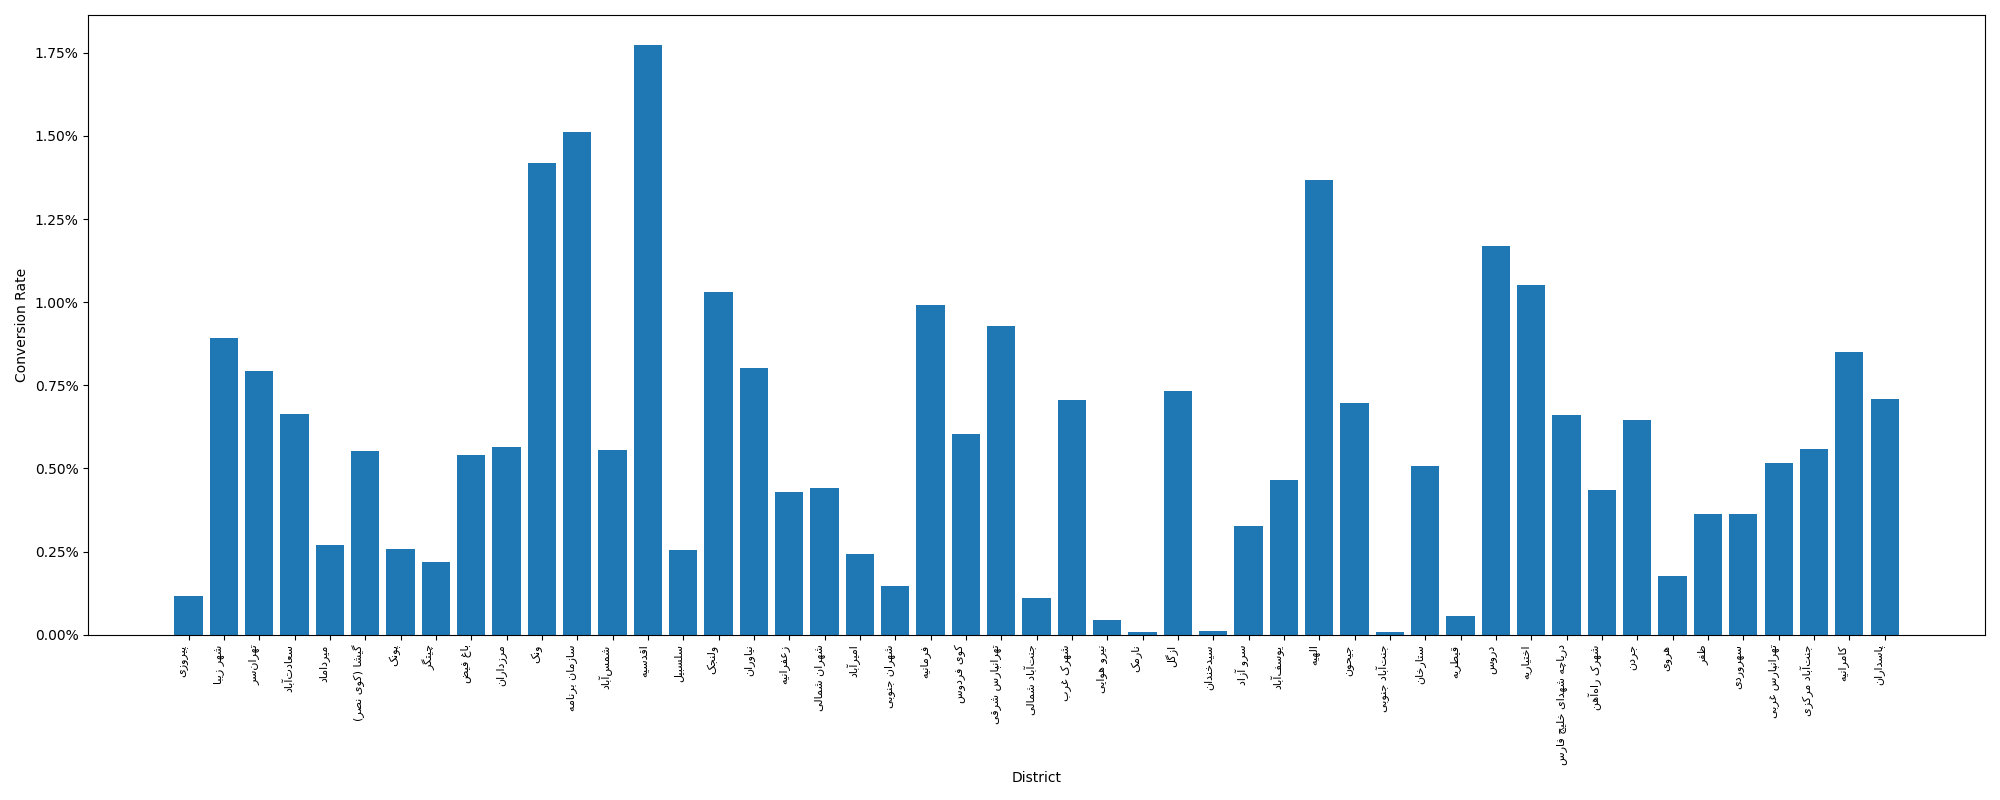
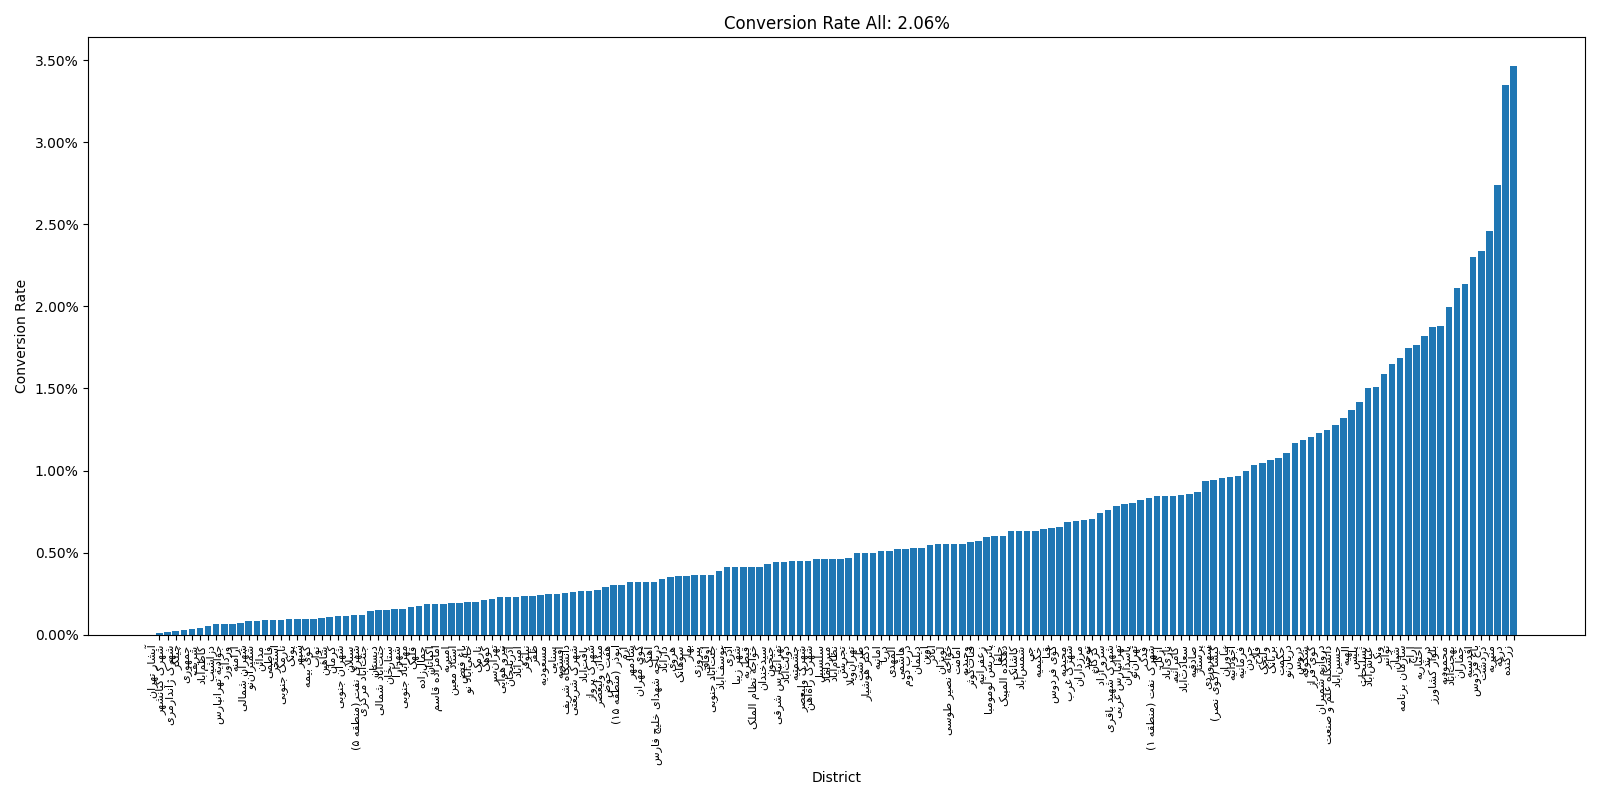
Added the PCA Results

diff --git a/PCA_analysis.py b/PCA_analysis.py
@@ -7,7 +7,7 @@ from bidi.algorithm import get_display
 from arabic_reshaper import reshape
 import matplotlib.ticker as mtick
 import os
-
+import numpy as np
 
 def process_data(info):
     data = pd.DataFrame.from_dict(info, orient='index', columns=['CREDIT', 'RENT', 'longitude', 'latitude','Meterage','District'])
@@ -17,7 +17,7 @@ def process_data(info):
     data['CREDIT'] /= 1000000
     data['RENT'] /= 1000000
     data['longitude'], data['latitude'] = data['longitude'].astype(float), data['latitude'].astype(float)
-    mask_prices = (data['CREDIT'] < 100) | (data['CREDIT'] > 2000) | (data['RENT'] < 1) | (data['RENT'] > 100)
+    mask_prices = (data['CREDIT'] < 100) | (data['CREDIT'] > 2000) | (data['RENT'] < 5) | (data['RENT'] > 100)
     data = data.loc[~mask_prices].dropna(subset=['CREDIT', 'RENT'])
 
     locs = data[['longitude', 'latitude']].dropna()
@@ -32,19 +32,28 @@ def compute_PCA_districts(files_path, treshhold):
     data, data_location, districts = process_data(info=info)
     conversion_rates = {}
 
+    pca = PCA()
+    pca.fit_transform(data[['CREDIT', 'RENT']])
+    conversion_rate_all = abs(pca.components_[0,1])
+
     for district in districts:
         data_district = data.loc[data['District'] == district]
 
         if len(data_district) > treshhold:
             pca = PCA()
-            pca_fit = pca.fit_transform(data_district[['CREDIT', 'RENT']])
+            pca.fit_transform(data_district[['CREDIT', 'RENT']])
 
             conversion_rate = abs(pca.components_[0,1])
 
-            # print(f'Conversion Rate of district {district}:\t {conversion_rate*100 :.2f}%')
             conversion_rates[district] = conversion_rate
 
-    fig = plt.figure(figsize=(20, 8))
+    # Sort the conversion_rates dictionary by values in ascending order
+    sorted_rates = sorted(conversion_rates.items(), key=lambda x: x[1])
+    # Create two lists for the sorted district names and conversion rates
+    sorted_districts = [x[0] for x in sorted_rates]
+    sorted_rates = [x[1] for x in sorted_rates]
+    
+    fig = plt.figure(figsize=(16, 8))
     
     PCA_path = files_path.replace("Results", "PCA_Results")
     if not os.path.isdir(PCA_path):
@@ -53,18 +62,18 @@ def compute_PCA_districts(files_path, treshhold):
         json.dump(conversion_rates, f, ensure_ascii=False, indent=4)
         
 
-    persian_labels = [get_display(reshape(label)) for label in conversion_rates.keys()]
-    plt.bar(persian_labels, conversion_rates.values())
+    persian_labels = [get_display(reshape(label)) for label in sorted_districts]
+    plt.bar(persian_labels, sorted_rates)
     plt.xticks(rotation=90, ha='right', fontsize = 8)
     plt.xlabel('District')
     plt.ylabel('Conversion Rate')
     plt.gca().yaxis.set_major_formatter(mtick.PercentFormatter(1.0))
+    plt.title(f"Conversion Rate All: {conversion_rate_all * 100 :.2f}%")
     plt.tight_layout()
-    # plt.show()
     plt.savefig(PCA_path+"bar_plot.png")
 
 compute_PCA_districts(files_path = "Results/apartment-rent/1/",
-                      treshhold=100)
+                      treshhold=10)
 
 
 # hist, xedges, yedges = np.histogram2d(data_location['longitude'], data_location['latitude'], bins=20)
